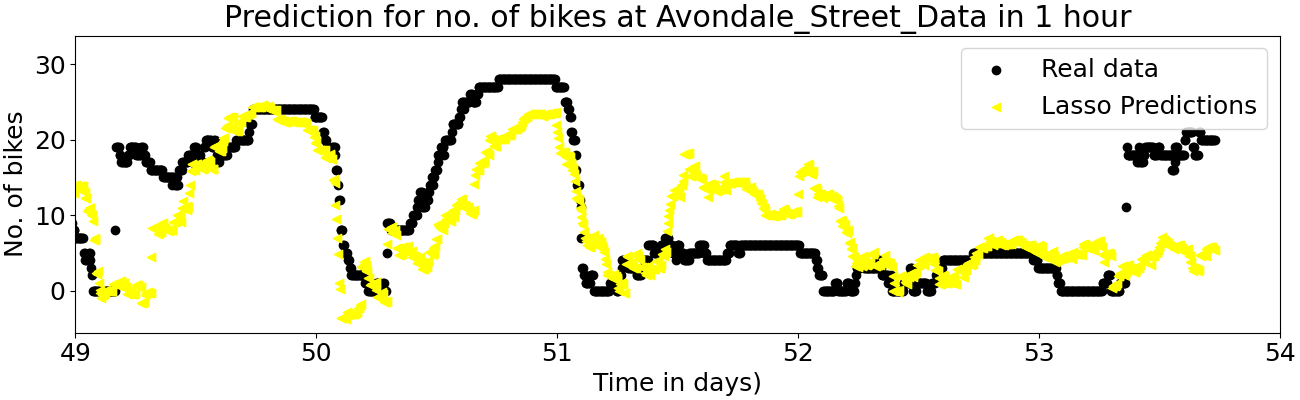
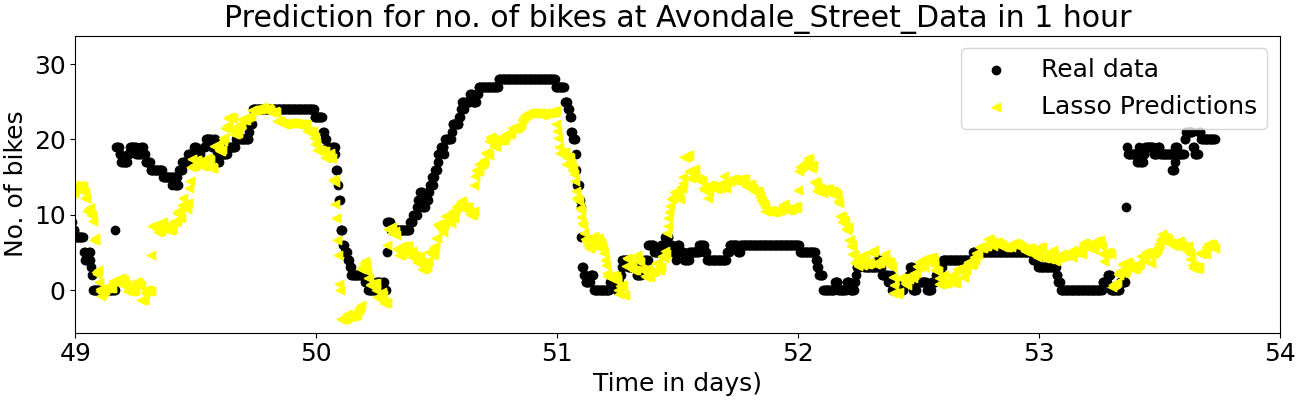
FINAL

diff --git a/main.py b/main.py
@@ -1,3 +1,4 @@
+from matplotlib import colors
 import pandas as pd
 import numpy as np
 import math, sys
@@ -6,13 +7,14 @@ from sklearn.model_selection import train_test_split
 from sklearn.linear_model import Ridge, Lasso
 from sklearn.tree import DecisionTreeRegressor
 from sklearn.dummy import DummyClassifier
-    
+from sklearn.metrics import mean_squared_error
+from sklearn.model_selection import KFold    
 
 
 plt.rc('font', size=18); plt.rcParams['figure.constrained_layout.use'] = True
 # read data. column 1 is date/time, col 6 is #bikes
-# df = pd.read_csv("Datasets/Avondale_Street_Data.csv", usecols = [2,7], parse_dates=[1])
-df = pd.read_csv("Datasets/Dame_Street_Data.csv", usecols = [2,7], parse_dates=[1])
+df = pd.read_csv("Datasets/Avondale_Street_Data.csv", usecols = [2,7], parse_dates=[1])
+# df = pd.read_csv("Datasets/Dame_Street_Data.csv", usecols = [2,7], parse_dates=[1])
 print("DF.HEAD ->")
 print(df.head())
 
@@ -51,6 +53,8 @@ t=(t-t[0])/60/60/24 # convert timestamp to days
 
 y = np.extract([(t_full>=t_start) & (t_full<=t_end)], df.iloc[:,1]).astype(np.int64)
 
+final_compate_std = []
+final_compate_mean = []
 
 
 
@@ -124,97 +128,154 @@ def put_it_together():
         # plt.xlim((4*7,4*7+4))
         plt.show()
 
+def cross_validation_for_C(XX, yy, title):
+    Cs = [0.00001, 0.00005, 0.0001, 0.0005, 0.001,0.005, 0.01,0.05, 0.1, 0.5, 1, 5, 10, 50, 100]
+
+    ridge_means=[]
+    lasso_means=[]
+    ridge_stds=[]
+    lasso_stds=[]
+    
+    for c_i in Cs:
+        ridge_error_mse=[]
+        lasso_error_mse=[]
+
+
+        kf = KFold(n_splits=5)
+        
+        for train, test in kf.split(yy):
+            alp = (1/(2*c_i)) 
+            
+            # Lasso
+            lasso_model = Lasso(fit_intercept=False, alpha=alp)
+            lasso_model.fit(XX[train], yy[train]) 
+            lasso_y_pred = lasso_model.predict(XX)
+            lasso_error_mse.append(mean_squared_error(yy,lasso_y_pred))
+    
+            
+            # Ridge
+            ridge_model = Ridge(fit_intercept=False, alpha=alp)
+            ridge_model.fit(XX[train], yy[train])
+            ridge_y_pred = ridge_model.predict(XX)
+            ridge_error_mse.append(mean_squared_error(yy,ridge_y_pred))
+            
+        ridge_means.append(np.array(ridge_error_mse).mean())
+        lasso_means.append(np.array(lasso_error_mse).mean())
+
+        ridge_stds.append(np.array(ridge_error_mse).std())
+        lasso_stds.append(np.array(lasso_error_mse).std())
+
+    
+
+    plt.errorbar(Cs,lasso_means,yerr=lasso_stds)
+    plt.xlabel('Ci'); 
+    plt.ylabel('MSE (Lasso) '+title)
+    plt.xlim((0,1.0))
+    plt.show()
+
+
+    plt.errorbar(Cs,ridge_means,yerr=ridge_stds)
+    plt.xlabel('Ci'); 
+    plt.ylabel('MSE (Ridge) '+title)
+    plt.show()
+
+    
+
 
 def apply_models(q,dt,lag,y,t,c_value,title, plot):
     print(title)
     #q−step ahead prediction
     stride=1
-    #set up putting-together features
-    # features: [y^(k-3*w), y^(k-2*w), y^(k-1*w),y^(k-3*d), y^(k-2*d), y^(k-1*d), y^(k-3-q), y^(k-2-q), y^(k-1-q)]
+    
+    
     w=math.floor(7*24*60*60/dt) # number of samples per week
     len = y.size-w-lag*w-q
     XX=y[q:q+len:stride]
     # print('HERE\n\n\n')
     # print(XX)
     
-    for i in range(1,lag): # set up [y^(k-3*w), y^(k-2*w), y^(k-1*w)] when lag=3
+
+    # Features =  [y^(k-3*w), y^(k-2*w), y^(k-1*w),y^(k-3*d), y^(k-2*d), y^(k-1*d), y^(k-3-q), y^(k-2-q), y^(k-1-q)]
+    for i in range(1,lag): 
         X=y[i*w+q:i*w+q+len:stride] 
-        XX=np.column_stack((XX,X)) #add weekly feature to XX
-    d=math.floor(24*60*60/dt) # number of samples per day
+        XX=np.column_stack((XX,X)) 
+    d=math.floor(24*60*60/dt) 
     
-    for i in range(0,lag): # set up [y^(k-3*d), y^(k-2*d), y^(k-1*d)] when lag=3
+    for i in range(0,lag): 
         X=y[i*d+q:i*d+q+len:stride]
-        XX=np.column_stack((XX,X)) #add daily feature to XX
+        XX=np.column_stack((XX,X)) 
     
-    for i in range(0,lag): # set up [y^(k-3-q), y^(k-2-q), y^(k-1-q)] when lag=3
+    for i in range(0,lag): 
         X=y[i:i+len:stride]
-        XX=np.column_stack((XX,X)) #add short-term feature to XX
+        XX=np.column_stack((XX,X)) 
     
     
-    yy=y[lag*w+w+q:lag*w+w+q+len:stride] # set up yy for putting-together feature
-    tt=t[lag*w+w+q:lag*w+w+q+len:stride] # set up tt for putting-together feature
+    yy=y[lag*w+w+q:lag*w+w+q+len:stride] 
+    tt=t[lag*w+w+q:lag*w+w+q+len:stride] 
 
     
     train, test = train_test_split(np.arange(0,yy.size),test_size=0.2)
 
+    # # UNCOMMENT BELOW LINE FOR CROSS VALIDATION OF values of C
+    # cross_validation_for_C(XX, yy, 'Cross Validation for C')
+
+    ai = (1/(2*0.001)) 
+    # Ridge Model
+    ridge_model = Ridge(fit_intercept=False, alpha=ai).fit(XX[train], yy[train])
     
     ai = (1/(2*c_value)) 
-    ridge_model = Ridge(fit_intercept=False, alpha=ai).fit(XX[train], yy[train])
+    # Lasso Model
     lasso_model = Lasso(fit_intercept=False, alpha=ai).fit(XX[train], yy[train]) 
    
    
-    # NEW ADDITION
+    # Decision Tree
     decision_tree_model =  DecisionTreeRegressor()
     decision_tree_model.fit(XX[train], yy[train])
-
+    
     
 
-    #Baseline model
-    dummy_clf = DummyClassifier(strategy="most_frequent")
-    dummy_clf.fit(XX[train], yy[train])
+    # Dummy Regressor
+    dummy_reg = DummyClassifier(strategy="most_frequent")
+    dummy_reg.fit(XX[train], yy[train])
     
-    print("\n")
-    print("the value of each parameters in feature")
-    print(ridge_model.intercept_, ridge_model.coef_)
-    print("\n")
 
-    #preditions by each model
-    y_pred_ridge = ridge_model.predict(XX)
-    y_pred_lasso = lasso_model.predict(XX)
+    # print("Intercepts")
+    # print(ridge_model.intercept_, ridge_model.coef_)
+    # print(lasso_model.intercept_, lasso_model.coef_)
+    
 
-    y_pred_decision_tree = decision_tree_model.predict(XX)
-    y_pred__dummy = dummy_clf.predict(XX)
-    #evaluation of the results, using mean square error
-    from sklearn.metrics import mean_squared_error
-    print("\n")
+    
+    # Predict
+    ridge_y_pred = ridge_model.predict(XX)
+    lasso_y_pred = lasso_model.predict(XX)
+    decision_tree_y_pred = decision_tree_model.predict(XX)
+    baseline_y_pred = dummy_reg.predict(XX)
+
+    # la_error.append(metrics.mean_squared_error(yy, lasso_y_pred))
+
+    # Use MSE
+    
     print(f"Results for {title}")
 
-    from sklearn.metrics import accuracy_score
-    # accuracy = accuracy_score(yy, y_pred_ridge)
-    # print('accuracy of ridge = %f' % (accuracy))
 
-    # accuracy = accuracy_score(yy, y_pred_lasso)
-    # print('accuracy of lasso = %f' % (accuracy))
-
-    accuracy = accuracy_score(yy, y_pred__dummy)
-    print('accuracy of dummy = %f' % (accuracy))
-
-    # score = decision_tree_model.score(yy[train], y_pred__dummy)
-    # accuracy = accuracy_score(yy, y_pred_decision_tree)
+    # score = decision_tree_model.score(yy[train], baseline_y_pred)
+    # accuracy = accuracy_score(yy, decision_tree_y_pred)
     # print('accuracy of decision tree = %f' % (score))
 
 
-    print(f"MSE (ridge model) {(mean_squared_error(yy,y_pred_ridge))}")
-    print(f"MSE (lasso model) {(mean_squared_error(yy,y_pred_lasso))}")
-    print(f"MSE (decision tree model) {(mean_squared_error(yy,y_pred_decision_tree))}")
-    print(f"MSE (baseline model) {(mean_squared_error(yy,y_pred__dummy))}")
+    print(f"MSE (ridge model) {(mean_squared_error(yy,ridge_y_pred))}")
+    print(f"MSE (lasso model) {(mean_squared_error(yy,lasso_y_pred))}")
+    print(f"MSE (decision tree model) {(mean_squared_error(yy,decision_tree_y_pred))}")
+    print(f"MSE (baseline model) {(mean_squared_error(yy,baseline_y_pred))}")
     print("\n")
+
+    
 
     if plot is True:
         # Plot Ridge Prediction
         plt.rcParams["figure.figsize"] = (13, 4)
         plt.scatter(t, y, color='black'); 
-        plt.scatter(tt, y_pred_ridge, color='blue')
+        plt.scatter(tt, ridge_y_pred, color='blue')
         plt.ylabel("No. of bikes")
         plt.xlabel("Time in days)"); 
         
@@ -227,7 +288,7 @@ def apply_models(q,dt,lag,y,t,c_value,title, plot):
         # Polt Lasso Predictions
         plt.rcParams["figure.figsize"] = (13, 4)
         plt.scatter(t, y, color='black'); 
-        plt.scatter(tt, y_pred_lasso, color='yellow', marker='<')
+        plt.scatter(tt, lasso_y_pred, color='yellow', marker='<')
         plt.ylabel("No. of bikes")
         plt.xlabel("Time in days)"); 
         
@@ -240,7 +301,7 @@ def apply_models(q,dt,lag,y,t,c_value,title, plot):
         # Plot Decision Tree Predictions
         plt.rcParams["figure.figsize"] = (13, 4)
         plt.scatter(t, y, color='black'); 
-        plt.scatter(tt,y_pred_decision_tree, color='green', marker='x')
+        plt.scatter(tt,decision_tree_y_pred, color='green', marker='x')
         plt.ylabel("No. of bikes")
         plt.xlabel("Time in days)"); 
         
@@ -250,12 +311,6 @@ def apply_models(q,dt,lag,y,t,c_value,title, plot):
         plt.savefig('Final Plots/'+title+' Decision Tree.png')
         plt.show()
         
-        # # To plot all the predictions on the same graph, uncomment this
-        # plt.xlabel("time (days)"); 
-        # plt.ylabel("#bikes")
-        # plt.legend(["training data","ridge_predictions", "lasso_predictions", "decision_trees_predictions"],loc='upper left')
-        # plt.title(title)
-        # plt.show()
 
 
 
@@ -275,9 +330,9 @@ plot=True
 
 
 # prediction using short−term trend
-stand_name = 'Dame Street'
+# stand_name = 'Dame Street'
+stand_name = 'Avondale_Street_Data'
 
-# stand_name = 'Avondale_Street_Data'
 apply_models(q=2,dt=dt,lag=3,y=y, t=t, c_value=0.5,title= "Prediction for no. of bikes at " +stand_name + " in 10 mins", plot=True)
 
 # prediction using short−term trend
@@ -288,64 +343,3 @@ apply_models(q=6,dt=dt,lag=3,y=y,t=t, c_value=0.5,title= "Prediction for no. of 
 # features: [y^(k-3-q), y^(k-2-q), y^(k-1-q)]
 apply_models(q=12,dt=dt,lag=3,y=y, t=t, c_value=0.5,title= "Prediction for no. of bikes at " +stand_name + " in 1 hour", plot=True)
 
-
-
-#                   TIME AVAILABLE BIKES
-# 0  2020-01-01 06:25:02              15
-# 1  2020-01-01 06:30:02              15
-# 2  2020-01-01 06:35:02              15
-# 3  2020-01-01 06:40:03              15
-# 4  2020-01-01 06:45:02              15
-# data sampling interval is 300 secs
-# Prediction for no. of bikes at Dame Street in 10 mins
-
-
-# the value of each parameters in feature
-# 0.0 [-0.00237841  0.51347205  0.37716833 -0.00237841  0.27792848 -0.08224472
-#   0.00108212 -0.00403457 -0.00237841]
-
-
-
-
-# The evaluation of the results
-# accuracy of dummy = 0.143424
-# square error of ridge model 19.747978 
-# square error of lasso model 19.857163 
-# square error of decision tree model 1.861937 
-# square error of baseline model 76.504957 
-
-
-# Prediction for no. of bikes at Dame Street in 30 mins
-
-
-# the value of each parameters in feature
-# 0.0 [-0.01192638  0.54639528  0.35230897 -0.01192638  0.26792422 -0.08026728
-#   0.06282058 -0.08704942  0.0293456 ]
-
-
-
-
-# The evaluation of the results
-# accuracy of dummy = 0.143804
-# square error of ridge model 19.787076 
-# square error of lasso model 19.927744 
-# square error of decision tree model 1.531331 
-# square error of baseline model 76.525514 
-
-
-# Prediction for no. of bikes at Dame Street in 1 hour
-
-
-# the value of each parameters in feature
-# 0.0 [ 0.01432902  0.54699722  0.35288374  0.01432902  0.26382408 -0.05893043
-#  -0.1109462   0.1668689  -0.10965035]
-
-
-
-
-# The evaluation of the results
-# accuracy of dummy = 0.144378
-# square error of ridge model 19.830361 
-# square error of lasso model 19.994912 
-# square error of decision tree model 1.556443 
-# square error of baseline model 76.527611 
